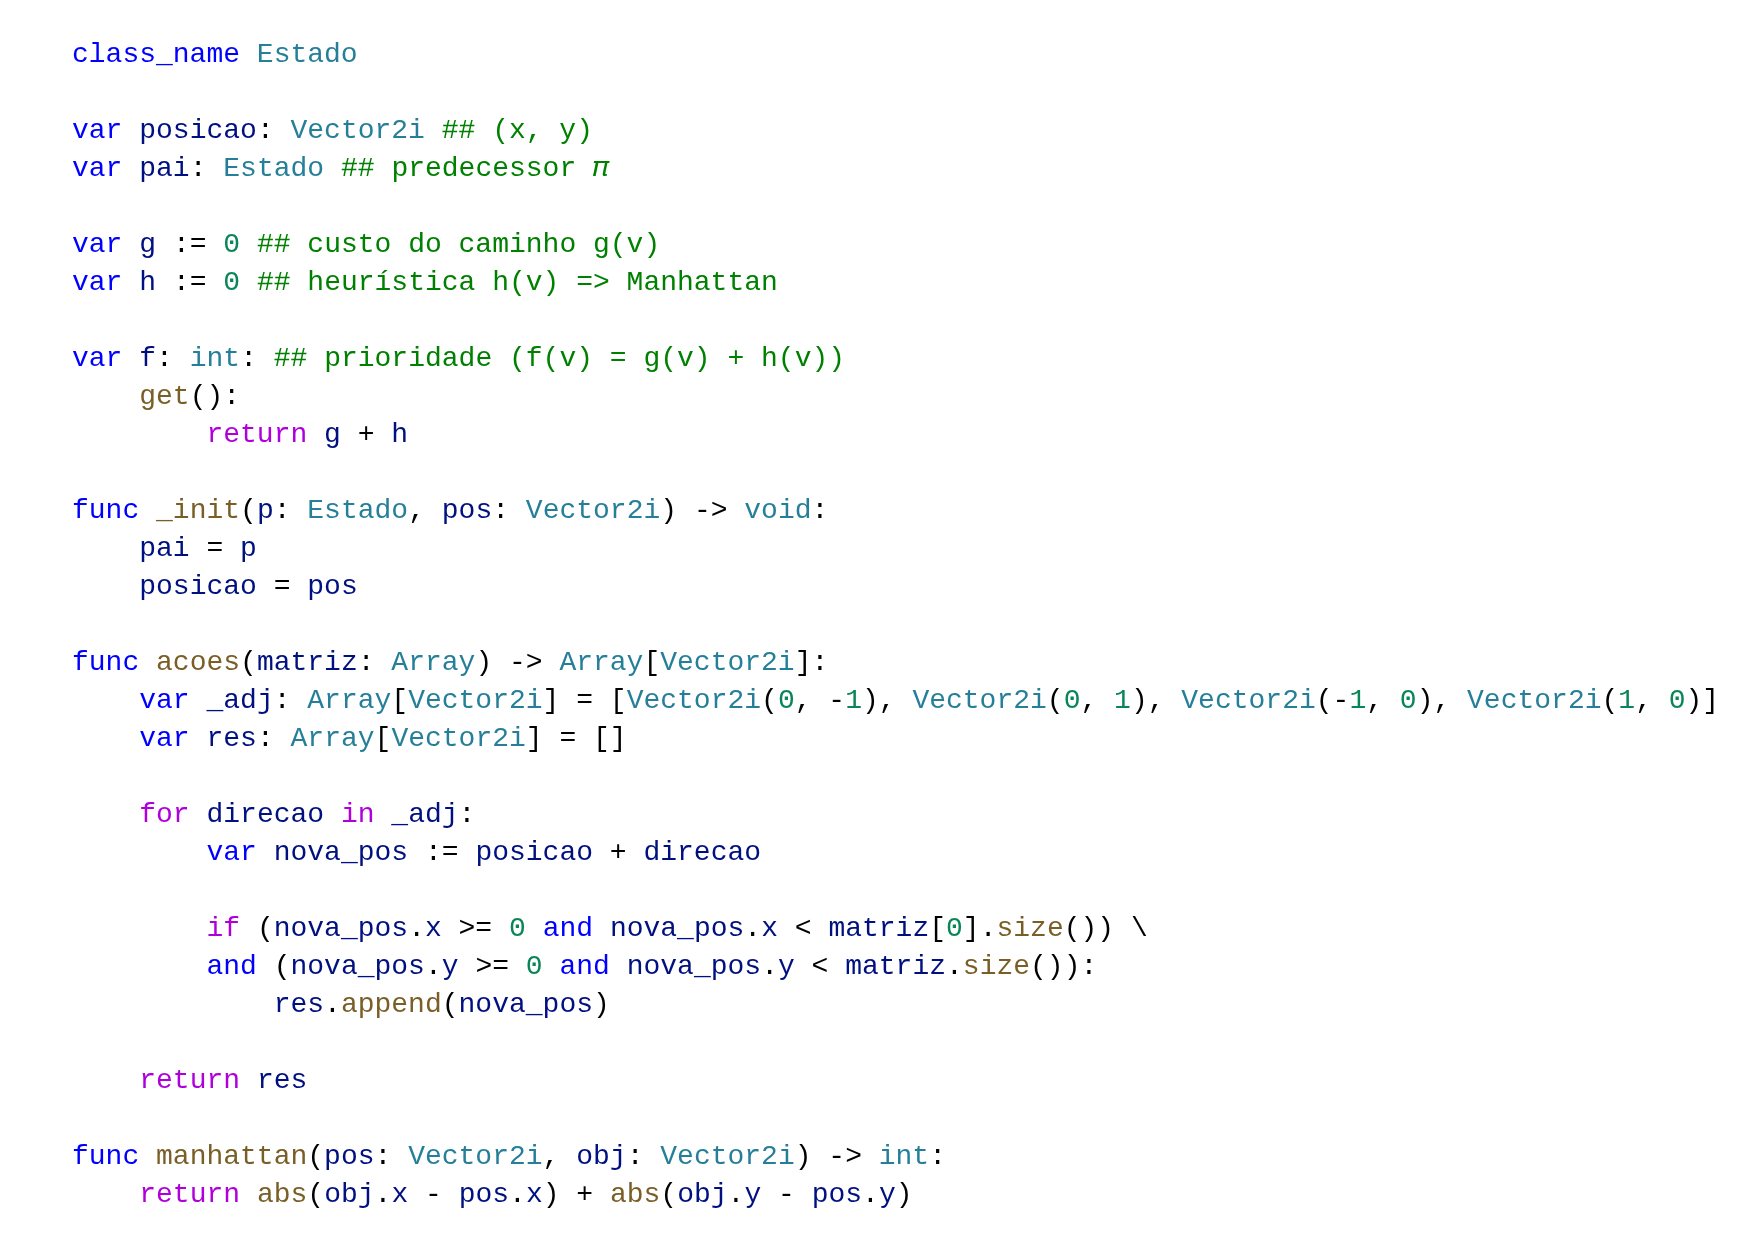
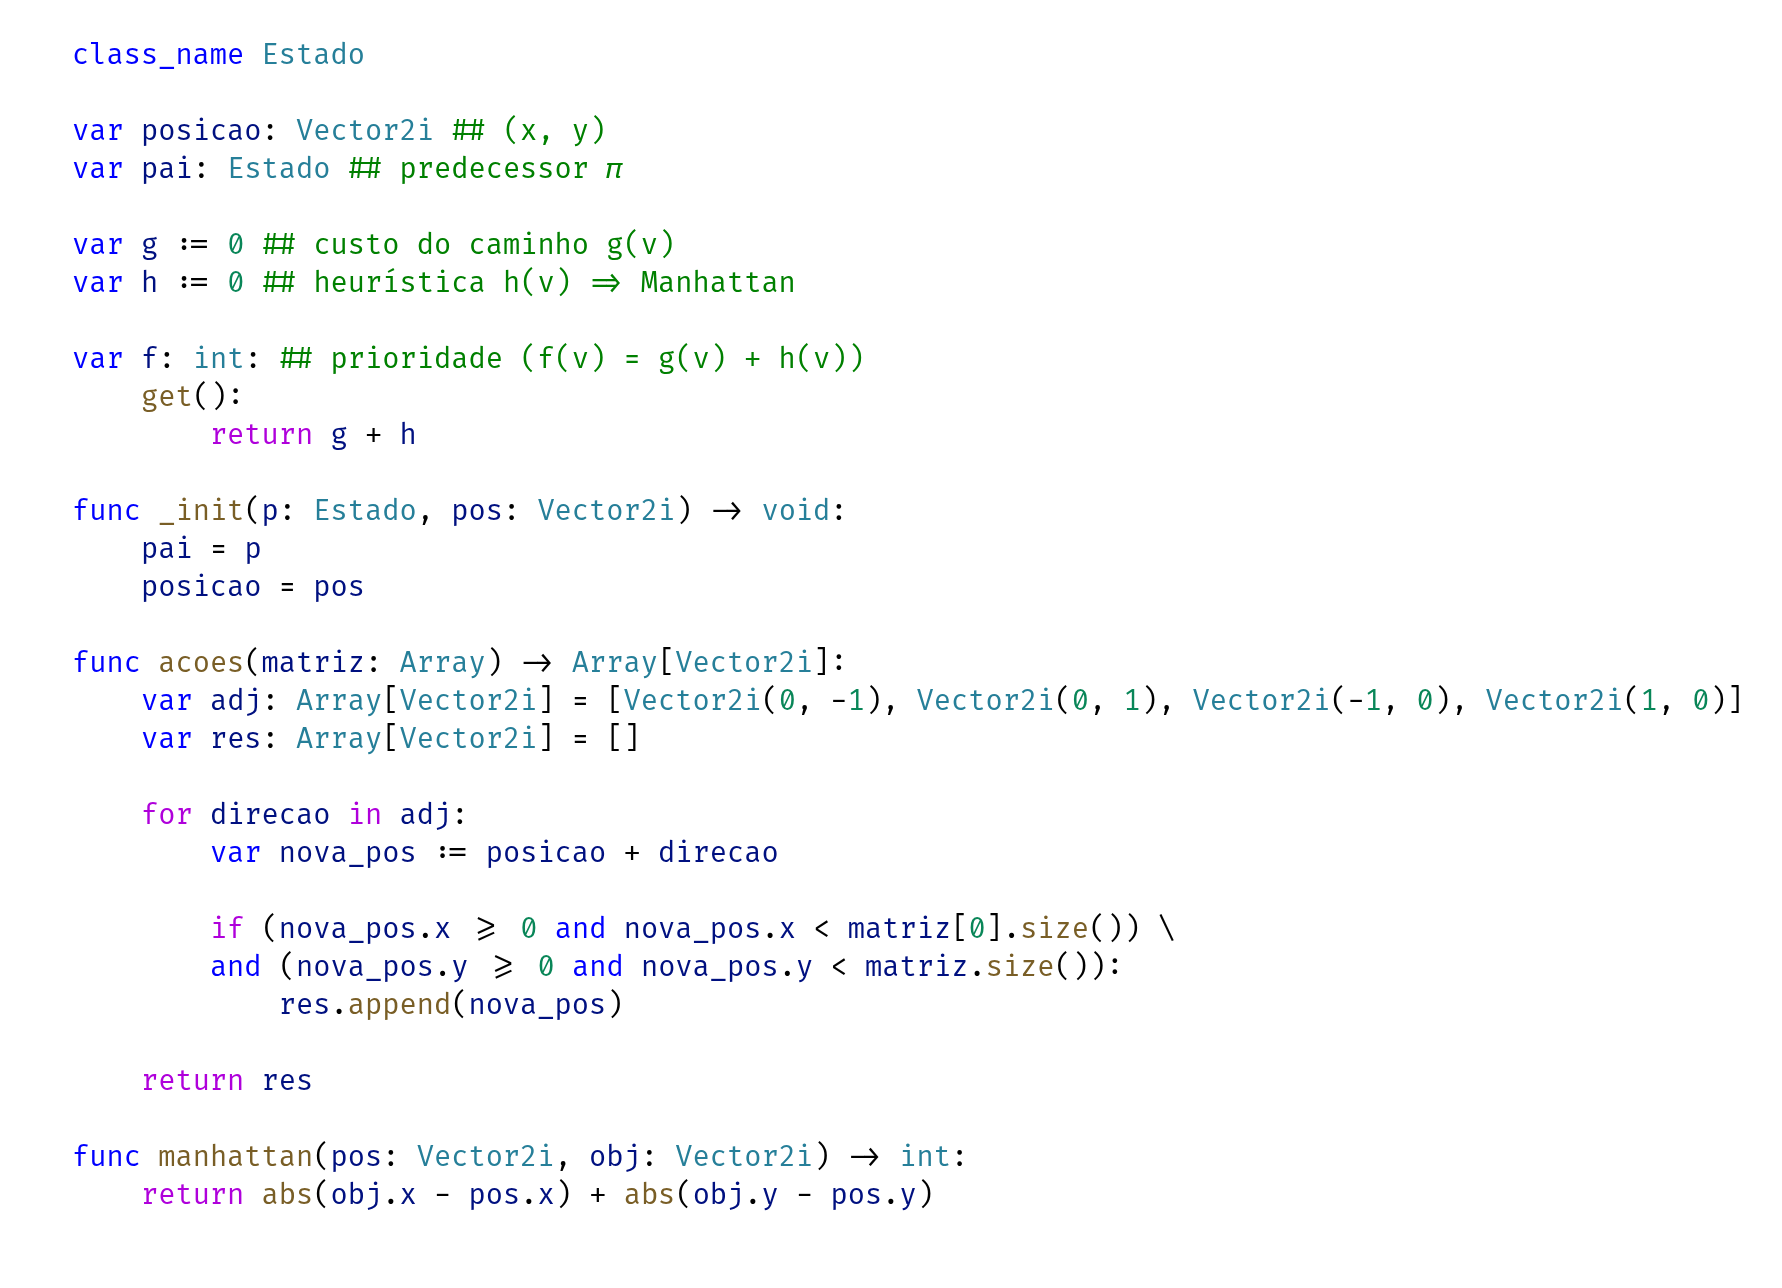
Motofologia: fix heurística e inicio da seção do A

diff --git a/relatorio/sessoes/2-metodologia.tex b/relatorio/sessoes/2-metodologia.tex
@@ -33,6 +33,9 @@ Foi implementado o estado do jogo para o núcleo do algoritmo A* (A-Estrela). Fo
 \end{figure}
 
 \section{A Aplicação da Heurística}
-A heurística escolhida é a distâcia de Manhattan no algoritmo A*, a soma das distâncias da posição até a saída. O movimento é proibido ao longo de diagonais, então a distância contada é a soma das horizonais e verticais:
+A heurística escolhida é a distância de Manhattan no algoritmo A*, a soma das distâncias da posição até a saída. O movimento é proibido ao longo de diagonais, então a distância contada é a soma das horizontais e verticais:
 \begin{equation} h(v) =  |x_s - x_v| + |y_s - y_v| \end{equation}
-onde $(x_v,y_v)$ é a posição do estado até $(x_s,y_s)$ é a posição  do estado de saída. Essa heurística é otimista \cite[seção 3.6]{ia2013}.
+onde $(x_v,y_v)$ é a posição do estado $v$ e $(x_s,y_s)$ é a posição do estado de saída. Essa heurística é otimista \cite[seção 3.6]{ia2013}.
+
+\section{A* (A-Estrela)}
+
